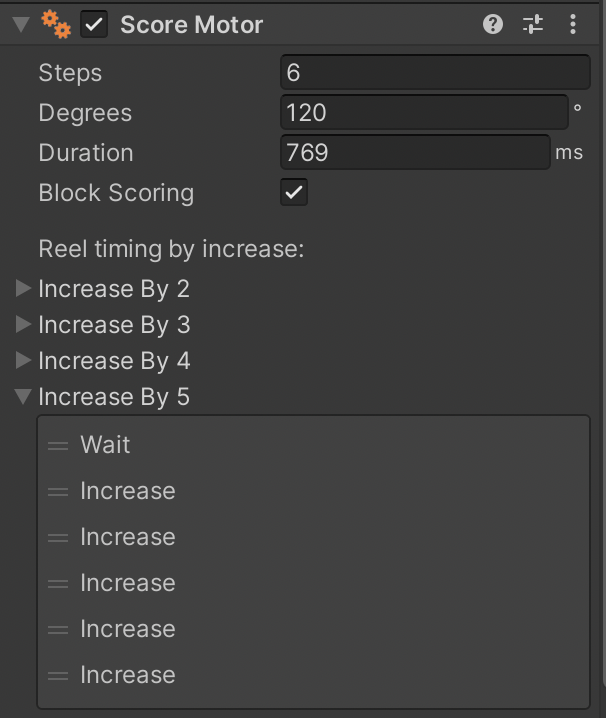
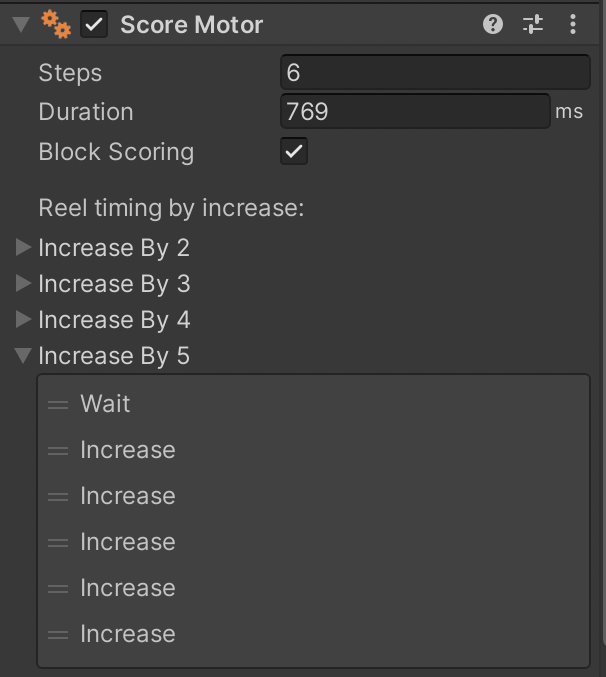
misc: remove degrees to simplify score motor config

diff --git a/VisualPinball.Unity/VisualPinball.Unity/VPT/Mech/ScoreMotorComponent.cs b/VisualPinball.Unity/VisualPinball.Unity/VPT/Mech/ScoreMotorComponent.cs
@@ -35,10 +35,6 @@ namespace VisualPinball.Unity
 	{
 		public const int MaxIncrease = 5;
 
-		[Unit("\u00B0")]
-		[Tooltip("The total number of degrees in one turn.")]
-		public int Degrees = 120;
-
 		[Unit("ms")]
 		[Tooltip("Amount of time, in milliseconds to move one turn.")]
 		public int Duration = 769;
@@ -80,8 +76,7 @@ namespace VisualPinball.Unity
 
 		private static readonly Logger Logger = LogManager.GetCurrentClassLogger();
 
-		private int DegreesPerStep => Degrees / Steps;
-		private float DegreesPerSecond => Degrees / (Duration / 1000f);
+		private float StepsPerSecond => Steps / (Duration / 1000f);
 
 		private bool _isRunning;
 
@@ -118,19 +113,17 @@ namespace VisualPinball.Unity
 
 			_time += Time.deltaTime;
 
-			var currentPos = (int)(DegreesPerSecond * _time);
+			var nextPos = (int)(StepsPerSecond * _time) + 1;
 
-			while (_pos <= currentPos && _pos < Degrees) {
+			while (_pos < nextPos && _pos < Steps) {
 				AdvanceMotor();
 			}
 
-			if (_pos >= Degrees) {
+			if (nextPos > Steps) {
 				if (_mode == ScoreMotorMode.Reset) {
 					if (_score > 0) {
 						_time = 0;
 						_pos = 0;
-
-						AdvanceMotor();
 
 						return;
 					}
@@ -207,23 +200,18 @@ namespace VisualPinball.Unity
 			_isRunning = true;
 
 			Switch(MotorRunningSwitchItem, true);
-
-			AdvanceMotor();
 		}
 
 		private void AdvanceMotor()
 		{
-			if (_pos % DegreesPerStep == 0) {
-				Switch(MotorStepSwitchItem, true);
+			Switch(MotorStepSwitchItem, true);
 
-				var step = _pos / DegreesPerStep;
-				var action = ScoreMotorTimingList[_increase - 1].Actions[step];
+			var action = ScoreMotorTimingList[_increase - 1].Actions[_pos];
 
-				Logger.Debug($"advance motor, pos={_pos}, time={_time}, increase={_increase}, step={step}, action={action}");
+			Logger.Debug($"advance motor, pos={_pos}, time={_time}, increase={_increase}, action={action}");
 
-				if (action == ScoreMotorAction.Increase) {
-					Increase();
-				}
+			if (action == ScoreMotorAction.Increase) {
+				Increase();
 			}
 
 			_pos++;
@@ -231,7 +219,7 @@ namespace VisualPinball.Unity
 
 		private void StopMotor()
 		{
-			Logger.Debug($"stop motor");
+			Logger.Debug($"stop motor: time={_time}");
 
 			_isRunning = false;
 

diff --git a/VisualPinball.Unity/VisualPinball.Unity.Editor/VPT/Mech/ScoreMotorInspector.cs b/VisualPinball.Unity/VisualPinball.Unity.Editor/VPT/Mech/ScoreMotorInspector.cs
@@ -40,7 +40,6 @@ namespace VisualPinball.Unity.Editor
 			base.OnEnable();
 
 			_stepsProperty = serializedObject.FindProperty(nameof(ScoreMotorComponent.Steps));
-			_degreesProperty = serializedObject.FindProperty(nameof(ScoreMotorComponent.Degrees));
 			_durationProperty = serializedObject.FindProperty(nameof(ScoreMotorComponent.Duration));
 			_blockScoringProperty = serializedObject.FindProperty(nameof(ScoreMotorComponent.BlockScoring));
 			_scoreMotorTimingListProperty = serializedObject.FindProperty(nameof(ScoreMotorComponent.ScoreMotorTimingList));
@@ -59,7 +58,6 @@ namespace VisualPinball.Unity.Editor
 
 			RecalcuteScoreMotorTimingActions();
 
-			PropertyField(_degreesProperty);
 			PropertyField(_durationProperty);
 			PropertyField(_blockScoringProperty);
 

diff --git a/VisualPinball.Unity/Documentation~/creators-guide/manual/mechanisms/score-motors.md b/VisualPinball.Unity/Documentation~/creators-guide/manual/mechanisms/score-motors.md
@@ -23,7 +23,6 @@ Next, configure the score motor.
 The Score Motor inspector shows the following options:
 
 - **Steps** defines how many steps the score motor pulses for one turn.
-- **Degrees** sets the number of degrees the score motor rotates for one turn.
 - **Duration** defines the length of time (in milliseconds) it takes the score motor to rotate one turn.
 - **Block Scoring** defines if single point scoring is blocked while the score motor is running.
 
@@ -39,7 +38,6 @@ Reel timing by increase:
 By default, the score motor is configured to:
 
 - 6 Steps
-- 120&deg;
 - 769 ms
 
 Next, associate the score motor with the score reel display by selecting it in the Score Reel Display inspector:
